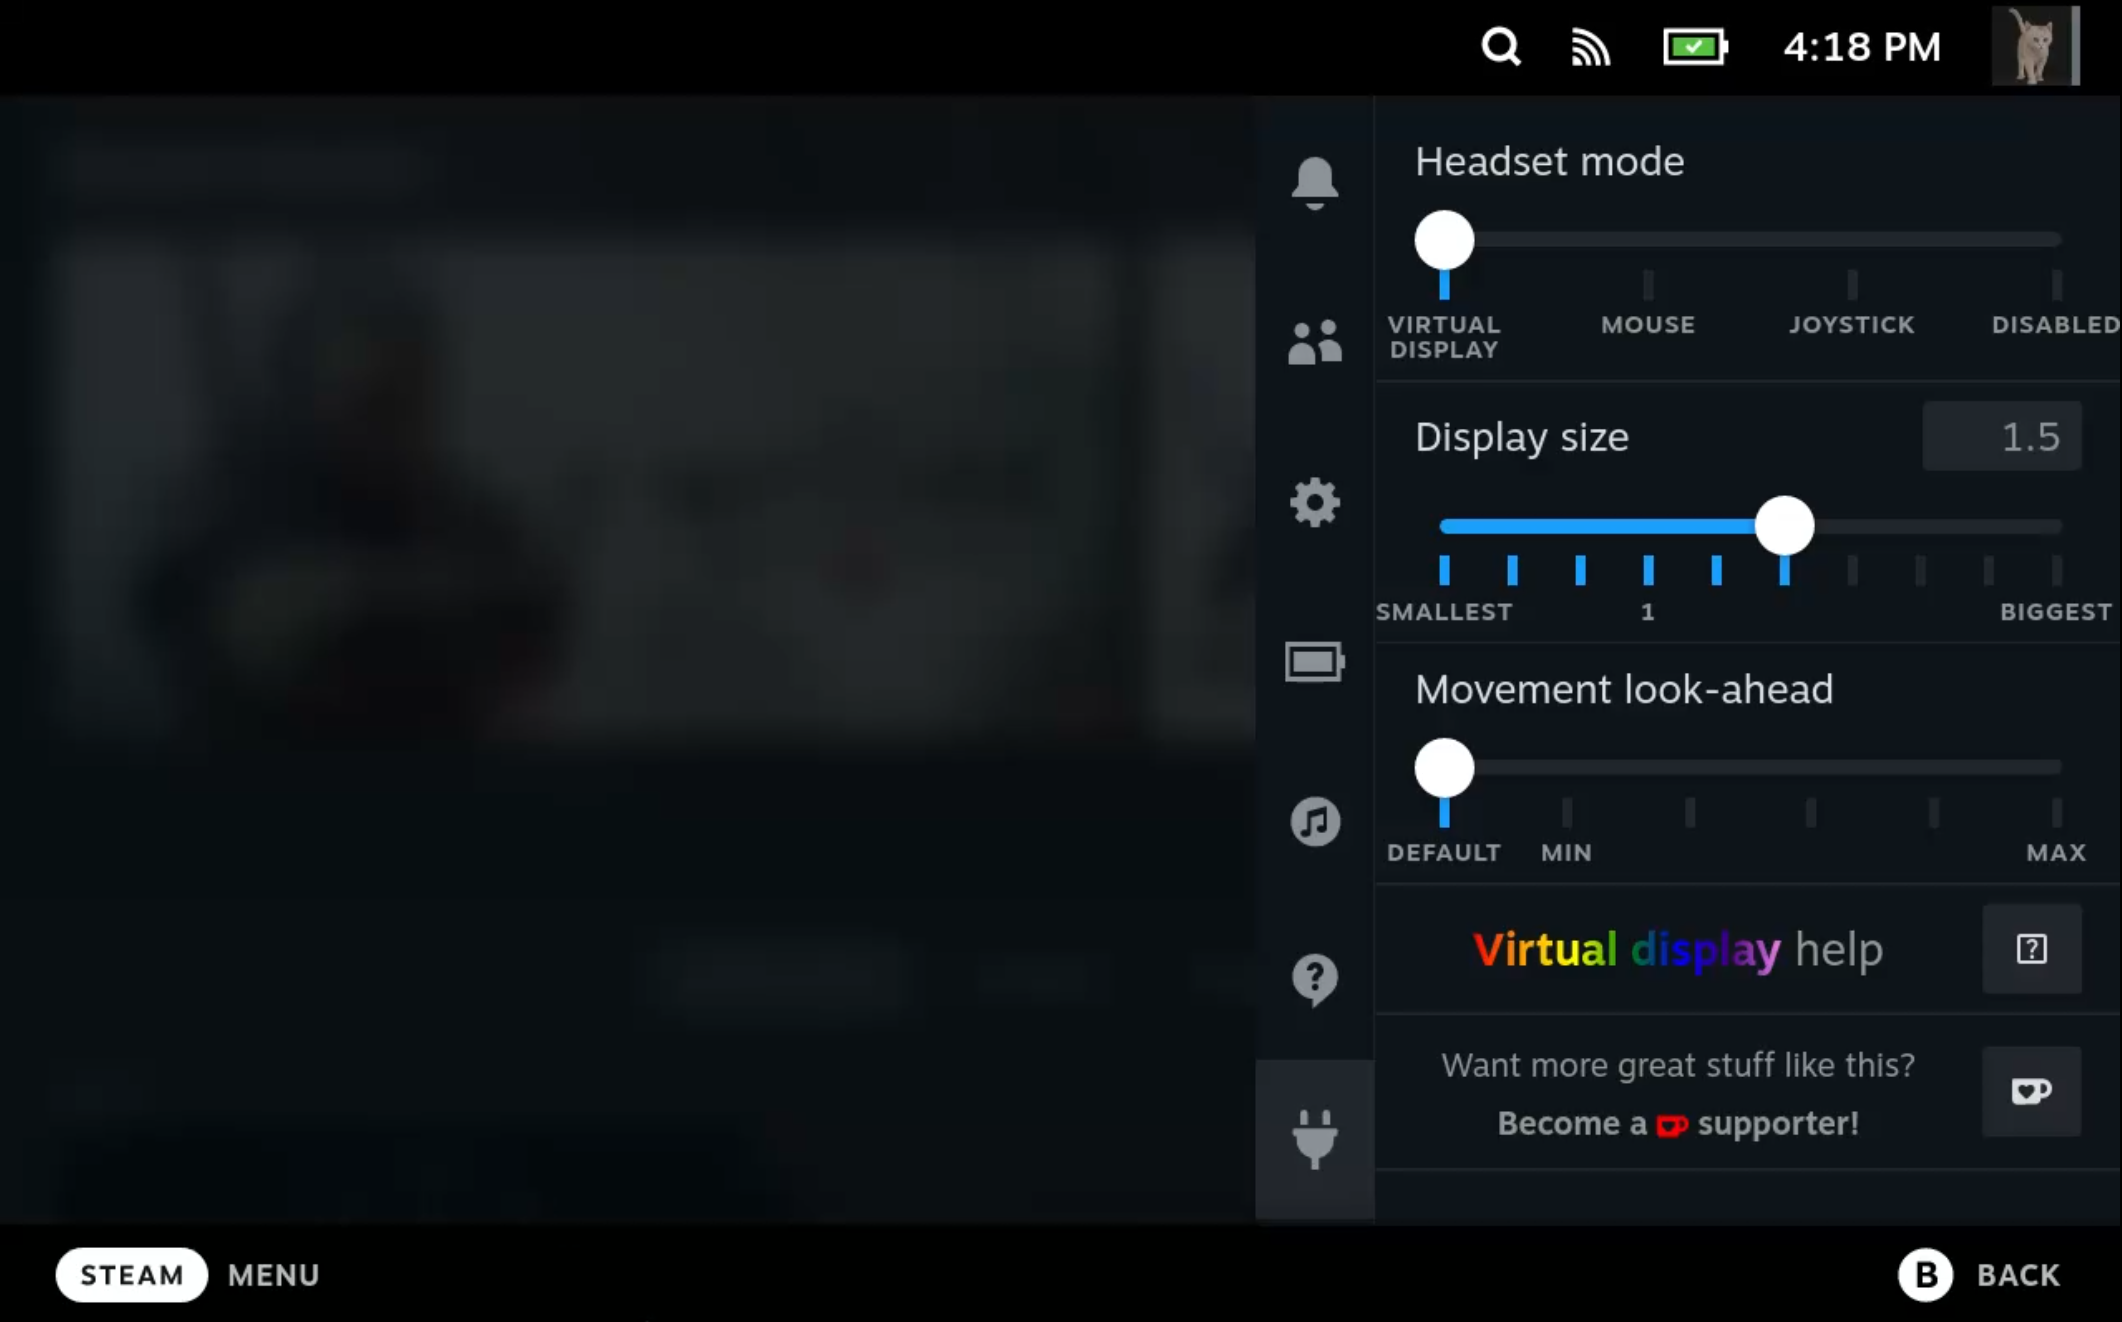
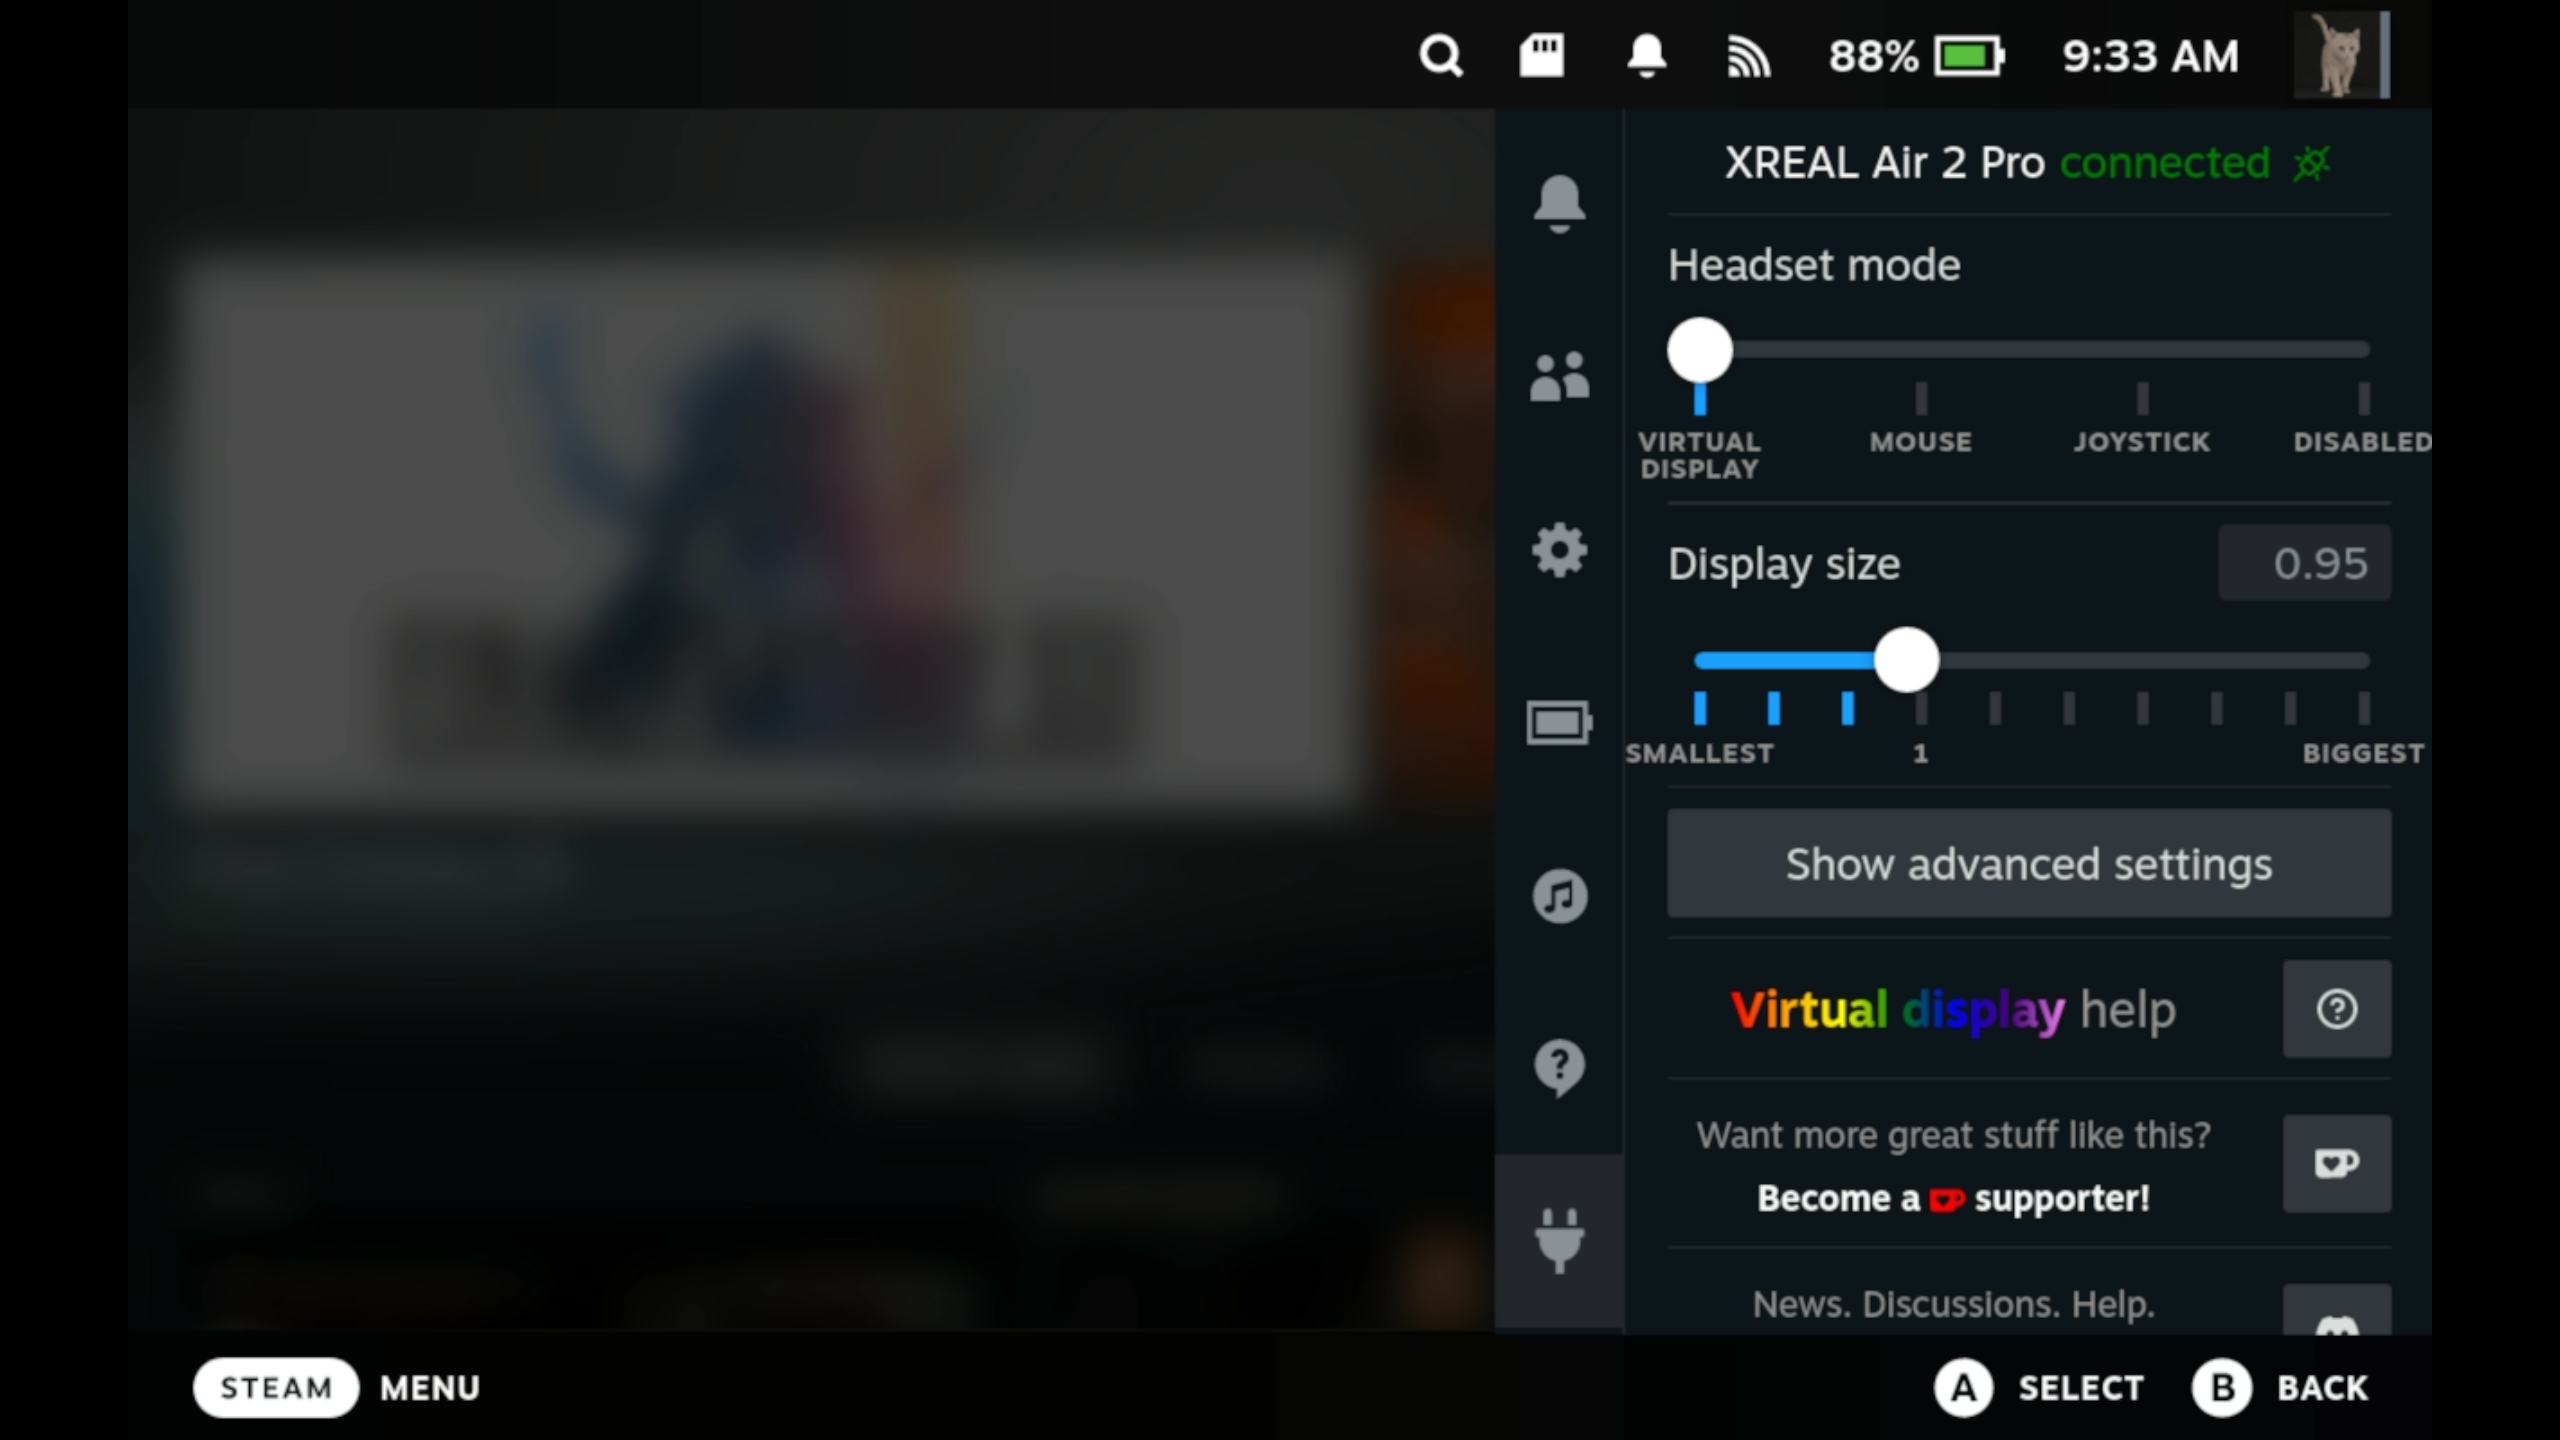
Add installation retries and error handling, hide advanced settings behind button, discord QR button

diff --git a/src/index.tsx b/src/index.tsx
@@ -1,6 +1,7 @@
 import {
     ButtonItem,
     definePlugin,
+    Field,
     NotchLabel,
     PanelSection,
     PanelSectionRow,
@@ -17,7 +18,7 @@ import {FaGlasses} from "react-icons/fa";
 import {BiMessageError} from "react-icons/bi";
 import { PiPlugsConnected } from "react-icons/pi";
 import { TbPlugConnectedX } from "react-icons/tb";
-import {SiKofi} from 'react-icons/si';
+import {SiDiscord, SiKofi} from 'react-icons/si';
 import {LuHelpCircle} from 'react-icons/lu';
 import QrButton from "./QrButton";
 
@@ -55,7 +56,7 @@ const ModeValues: ModeValue[] = ['external_only', 'mouse', 'joystick', 'disabled
 type CalibrationSetup = "AUTOMATIC" | "INTERACTIVE"
 type CalibrationState = "NOT_CALIBRATED" | "CALIBRATING" | "CALIBRATED" | "WAITING_ON_USER"
 type SbsModeControl = "unset" | "enable" | "disable"
-const DirtyControlFlagsExpireMilliseconds = 2000
+const DirtyControlFlagsExpireMilliseconds = 3000
 
 function modeValueIsOutputMode(value: ModeValue): value is OutputMode {
     return value != "disabled"
@@ -116,6 +117,7 @@ const Content: VFC<{ serverAPI: ServerAPI }> = ({serverAPI}) => {
     const [driverState, setDriverState] = useState<DriverState>();
     const [dirtyControlFlags, setDirtyControlFlags] = useState<DirtyControlFlags>({});
     const [installationStatus, setInstallationStatus] = useState<InstallationStatus>("checking");
+    const [showAdvanced, setShowAdvanced] = useState<boolean>(false);
     const [error, setError] = useState<string>();
 
     async function retrieveConfig() {
@@ -144,7 +146,8 @@ const Content: VFC<{ serverAPI: ServerAPI }> = ({serverAPI}) => {
                 if (installDriverRes.success && installDriverRes.result)
                     setInstallationStatus("installed")
                 else
-                    setError("Error installing the driver, check the logs")
+                    setError("There was an error during setup. Try restarting your Steam Deck. " +
+                        "If the error persists, please file an issue in the decky-xrealAir GitHub repository.")
             }
         } else {
             setError(installedRes.result);
@@ -207,17 +210,17 @@ const Content: VFC<{ serverAPI: ServerAPI }> = ({serverAPI}) => {
                 {installationStatus == "installed" && driverState && config &&
                     <Fragment>
                         <PanelSectionRow style={{fontSize: 'medium', textAlign: 'center'}}>
-                            <div style={{padding: 0}}>
+                            <Field padding={'none'} childrenContainerWidth={'max'}>
                                 <span style={{color: deviceConnected ? 'white' : 'gray'}}>
                                     {deviceConnected ? driverState?.connected_device_name : "No device connected"}
                                 </span>
                                 {deviceConnected && <span style={{marginLeft: 5, color: 'green'}}>
                                     connected
                                 </span>}
-                                <span style={{marginLeft: 10, color: deviceConnected ? 'green' : 'red', position: 'relative', top: '3px'}}>
+                                <span style={{marginLeft: 7, color: deviceConnected ? 'green' : 'red', position: 'relative', top: '3px'}}>
                                     {deviceConnected ? <PiPlugsConnected /> : <TbPlugConnectedX />}
                                 </span>
-                            </div>
+                            </Field>
                         </PanelSectionRow>
                         {deviceConnected && <PanelSectionRow>
                             <SliderField label={"Headset mode"}
@@ -278,52 +281,62 @@ const Content: VFC<{ serverAPI: ServerAPI }> = ({serverAPI}) => {
                                              }}
                                 />
                             </PanelSectionRow>
-                            <PanelSectionRow>
-                                <SliderField value={lookAhead}
-                                             min={0} max={30} notchTicksVisible={true}
-                                             notchCount={7} notchLabels={LookAheadNotchLabels}
-                                             step={5}
-                                             label={"Movement look-ahead"}
-                                             description={lookAhead > 0 ? "Use Default unless screen is noticeably ahead or behind your movements. May introduce jitter at higher values." : undefined}
-                                             onChange={(look_ahead) => {
-                                                 if (config) {
-                                                     updateConfig({
-                                                         ...config,
-                                                         look_ahead
-                                                     }).catch(e => setError(e))
-                                                 }
-                                             }}
-                                />
-                            </PanelSectionRow>
-                            {driverState?.sbs_mode_supported && <PanelSectionRow>
-                                <ToggleField
-                                    checked={sbsModeEnabled}
-                                    label={"Enable SBS mode"}
-                                    onChange={(sbs_mode_enabled) => writeControlFlags(
-                                        {
-                                            sbs_mode: sbs_mode_enabled ? 'enable' : 'disable'
-                                        }
-                                    )}/>
+                            {!showAdvanced && <PanelSectionRow>
+                                <ButtonItem layout="below" onClick={() => setShowAdvanced(true)} >
+                                    Show advanced settings
+                                </ButtonItem>
                             </PanelSectionRow>}
-                            <PanelSectionRow>
-                                <ButtonItem disabled={calibrating || dirtyControlFlags.recenter_screen}
-                                            bottomSeparator="none"
-                                            layout="below"
-                                            onClick={() => writeControlFlags({recenter_screen: true})} >
-                                    Recenter display
+                            {showAdvanced && <Fragment>
+                                    <PanelSectionRow>
+                                    <ButtonItem disabled={calibrating || dirtyControlFlags.recenter_screen}
+                                                layout="below"
+                                                onClick={() => writeControlFlags({recenter_screen: true})} >
+                                        Recenter display
+                                    </ButtonItem>
+                                </PanelSectionRow>
+                                {driverState?.sbs_mode_supported && <PanelSectionRow>
+                                    <ToggleField
+                                        checked={sbsModeEnabled}
+                                        label={"Enable SBS mode"}
+                                        onChange={(sbs_mode_enabled) => writeControlFlags(
+                                            {
+                                                sbs_mode: sbs_mode_enabled ? 'enable' : 'disable'
+                                            }
+                                        )}/>
+                                </PanelSectionRow>}
+                                <PanelSectionRow>
+                                    <SliderField value={lookAhead}
+                                                 min={0} max={30} notchTicksVisible={true}
+                                                 notchCount={7} notchLabels={LookAheadNotchLabels}
+                                                 step={5}
+                                                 label={"Movement look-ahead"}
+                                                 description={lookAhead > 0 ? "Use Default unless screen is noticeably ahead or behind your movements. May introduce jitter at higher values." : undefined}
+                                                 onChange={(look_ahead) => {
+                                                     if (config) {
+                                                         updateConfig({
+                                                             ...config,
+                                                             look_ahead
+                                                         }).catch(e => setError(e))
+                                                     }
+                                                 }}
+                                    />
+                                </PanelSectionRow>
+                                <PanelSectionRow>
+                                    <ButtonItem disabled={calibrating}
+                                                layout="below"
+                                                onClick={() => writeControlFlags({recalibrate: true})} >
+                                        {calibrating ?
+                                            <span><Spinner style={{height: '16px', marginRight: 10}} />Calibrating headset</span> :
+                                            "Recalibrate headset"
+                                        }
+                                    </ButtonItem>
+                                </PanelSectionRow>
+                            </Fragment>}
+                            {showAdvanced && <PanelSectionRow>
+                                <ButtonItem layout="below" onClick={() => setShowAdvanced(false)} >
+                                    Hide advanced settings
                                 </ButtonItem>
-                            </PanelSectionRow>
-                            <PanelSectionRow>
-                                <ButtonItem disabled={calibrating}
-                                            bottomSeparator="none"
-                                            layout="below"
-                                            onClick={() => writeControlFlags({recalibrate: true})} >
-                                    {calibrating ?
-                                        <span><Spinner style={{height: '16px', marginRight: 10}} />Calibrating</span> :
-                                        "Recalibrate"
-                                    }
-                                </ButtonItem>
-                            </PanelSectionRow>
+                            </PanelSectionRow>}
                         </Fragment>}
                         {!isDisabled && config.output_mode == "external_only" &&
                             <QrButton icon={<LuHelpCircle />}
@@ -341,9 +354,15 @@ const Content: VFC<{ serverAPI: ServerAPI }> = ({serverAPI}) => {
                         {deviceConnected && <QrButton icon={<SiKofi />} url={"https://ko-fi.com/wheaney"}>
                             <span style={{fontSize: 'small'}}>
                                 Want more great stuff like this?<br/>
-                                <b>Become a <SiKofi style={{position: 'relative', top: '3px'}} color={"red"} /> supporter!</b>
+                                <span style={{color:'white', fontWeight: 'bold'}}>Become a <SiKofi style={{position: 'relative', top: '3px'}} color={"red"} /> supporter!</span>
                             </span>
                         </QrButton>}
+                        <QrButton icon={<SiDiscord />} url={"https://discord.gg/GRQcfR5h9c"}>
+                            <span style={{fontSize: 'small'}}>
+                                News. Discussions. Help.<br/>
+                                <span style={{color:'white', fontWeight: 'bold'}}>Join the chat!</span>
+                            </span>
+                        </QrButton>
                     </Fragment> ||
                     <PanelSectionRow>
                         <Spinner style={{height: '48px'}} />

diff --git a/main.py b/main.py
@@ -128,7 +128,6 @@ class Plugin:
             with open(DRIVER_STATE_FILE_PATH, 'r') as f:
                 output = f.read()
                 for line in output.splitlines():
-                    decky_plugin.logger.info(f"Reading line {line}")
                     try:
                         key, value = line.strip().split('=')
                         if key == 'heartbeat':
@@ -150,10 +149,17 @@ class Plugin:
 
         return state
 
-    async def is_driver_installed(self):
+    async def is_driver_running(self):
         try:
             output = subprocess.check_output(['systemctl', 'is-active', 'xreal-air-driver'], stderr=subprocess.STDOUT)
-            if output.strip() != b'active':
+            return output.strip() == b'active'
+        except subprocess.CalledProcessError as exc:
+            decky_plugin.logger.error(f"Error checking driver status {exc}")
+            return False
+
+    async def is_driver_installed(self):
+        try:
+            if not await self.is_driver_running(self):
                 return False
 
             installed_from_plugin_version = settings.getSetting(INSTALLED_VERSION_SETTING_KEY)
@@ -171,10 +177,18 @@ class Plugin:
 
         setup_script_path = os.path.dirname(__file__) + "/bin/breezy_vulkan_setup"
         binary_path = os.path.dirname(__file__) + "/bin/breezyVulkan.tar.gz"
+        attempt = 0
         try:
-            subprocess.check_output([setup_script_path, binary_path], stderr=subprocess.STDOUT, env=env_copy)
-            settings.setSetting(INSTALLED_VERSION_SETTING_KEY, decky_plugin.DECKY_PLUGIN_VERSION)
-            return True
+            while attempt < 3:
+                subprocess.check_output([setup_script_path, binary_path], stderr=subprocess.STDOUT, env=env_copy)
+                if await self.is_driver_running(self):
+                    settings.setSetting(INSTALLED_VERSION_SETTING_KEY, decky_plugin.DECKY_PLUGIN_VERSION)
+                    return True
+
+                attempt += 1
+                time.sleep(1)
+
+            return False
         except subprocess.CalledProcessError as exc:
             decky_plugin.logger.error(f"Error running setup script {exc}")
             return False
